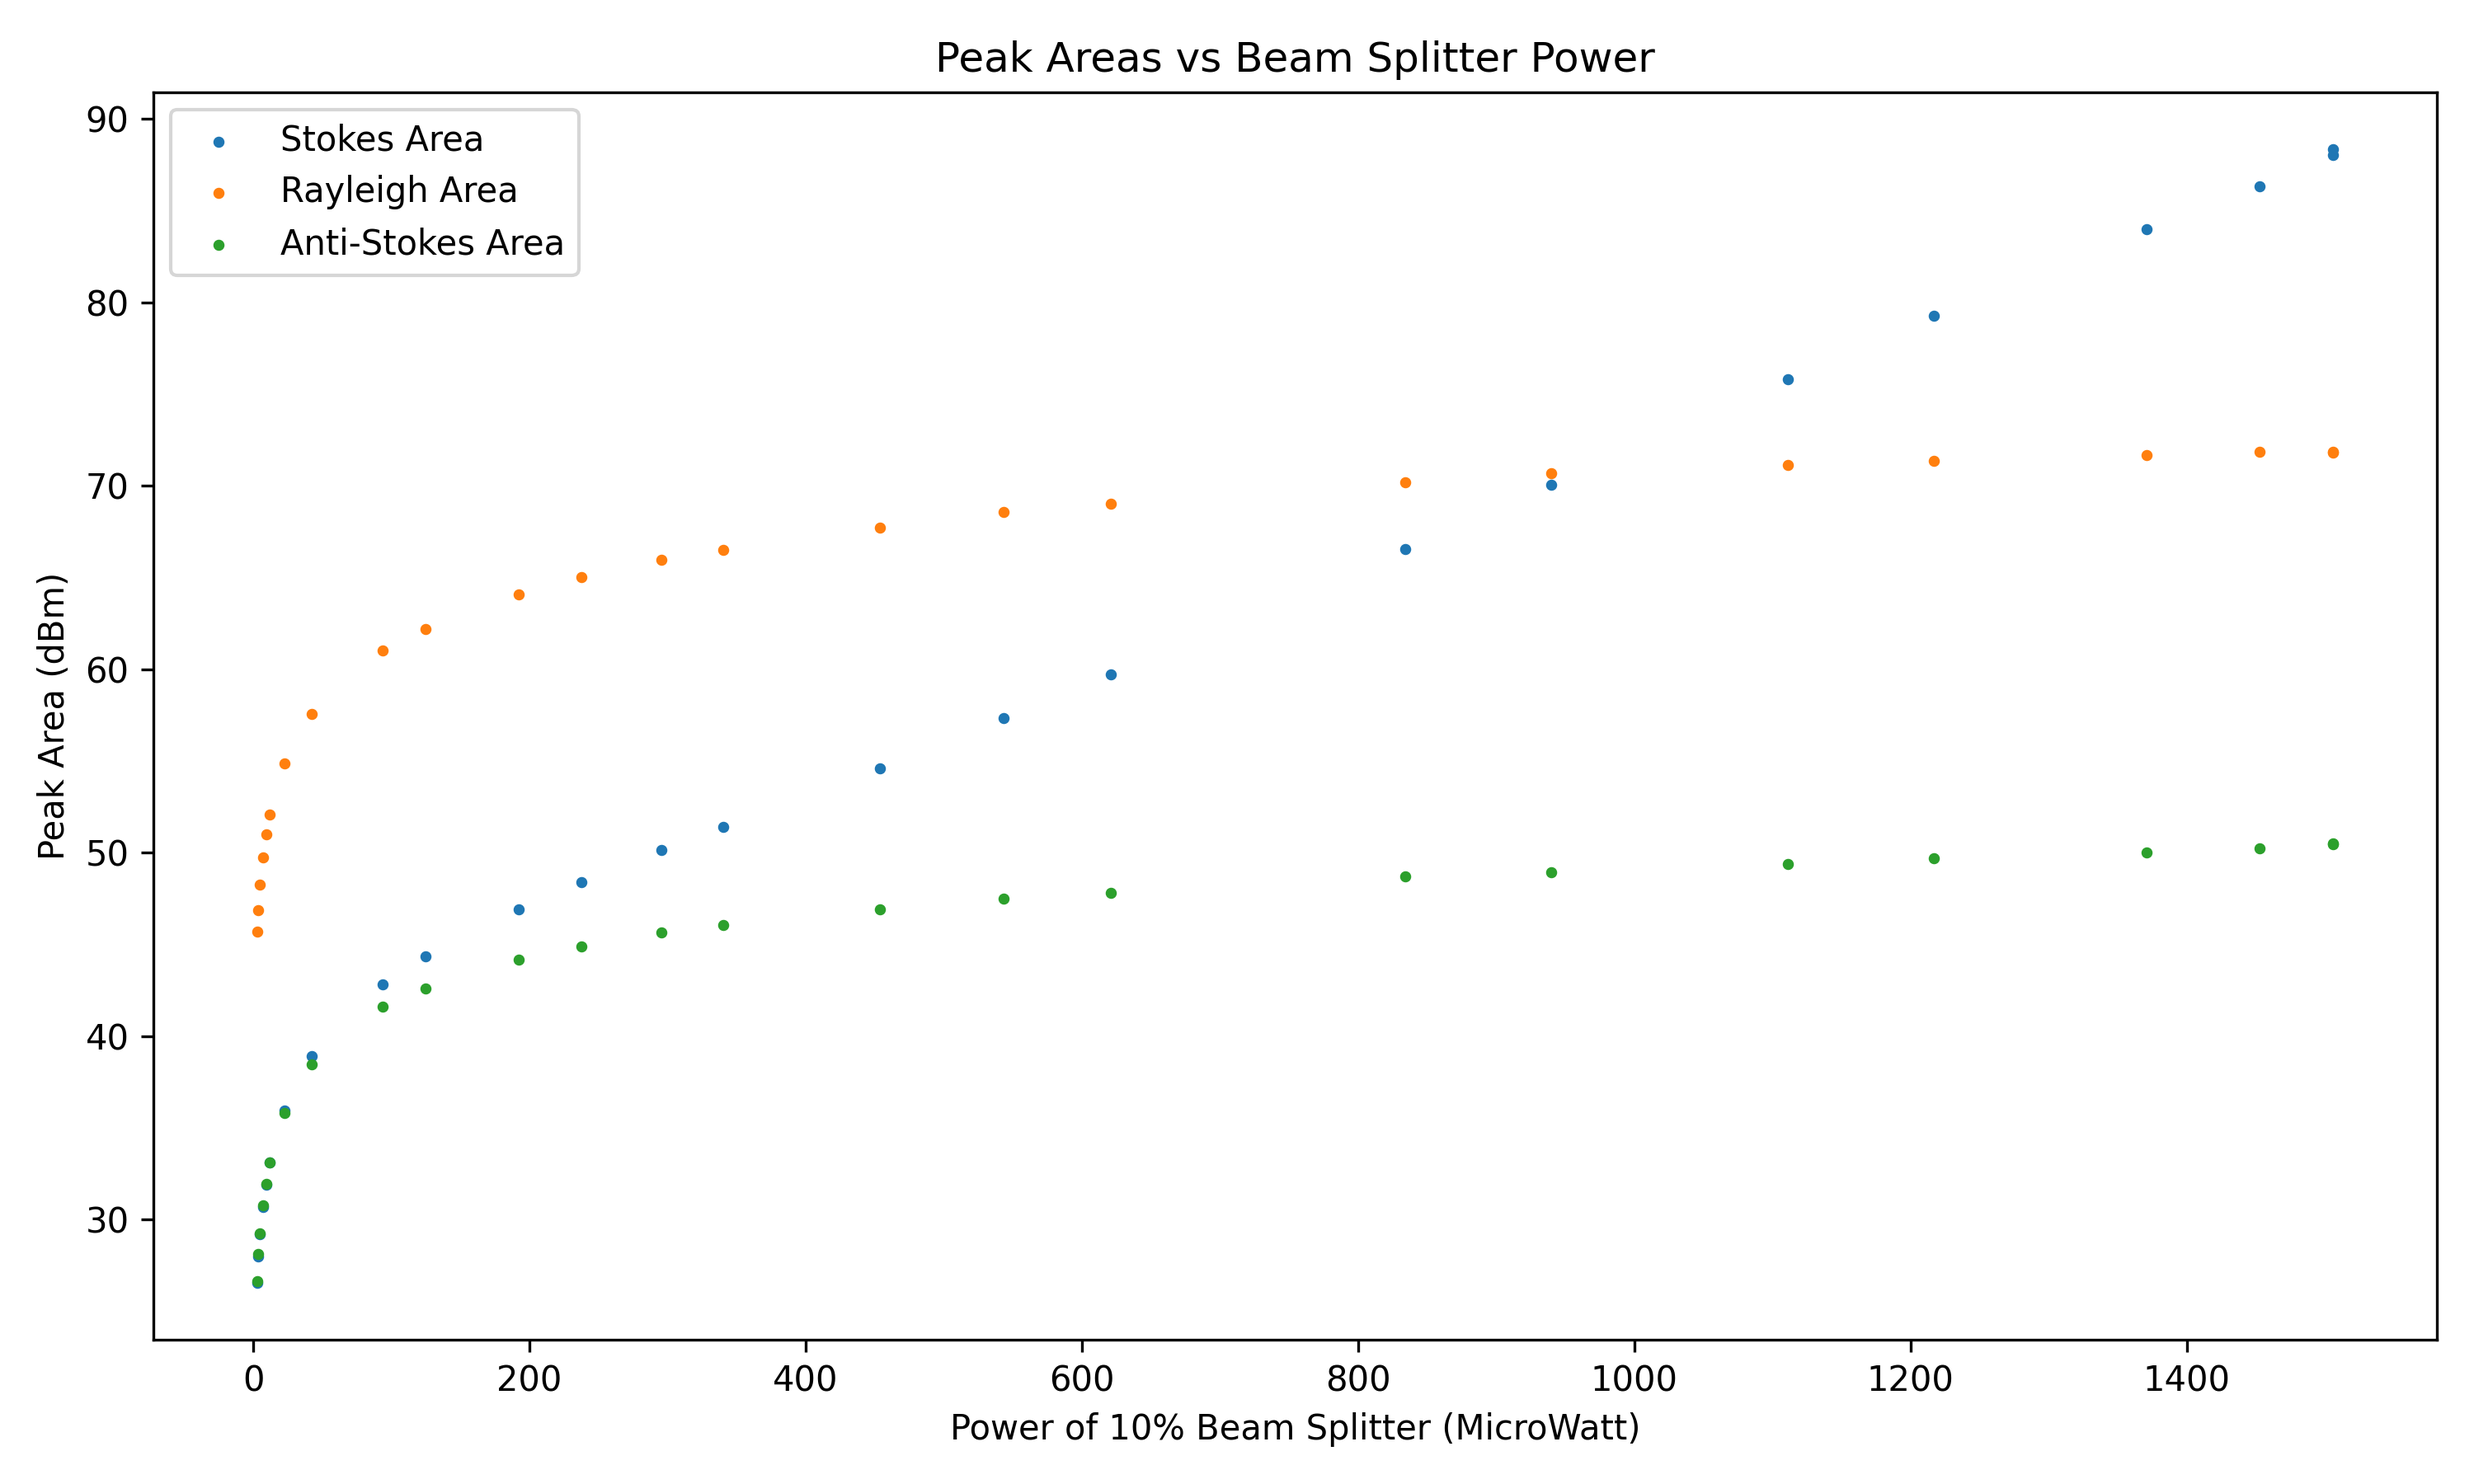
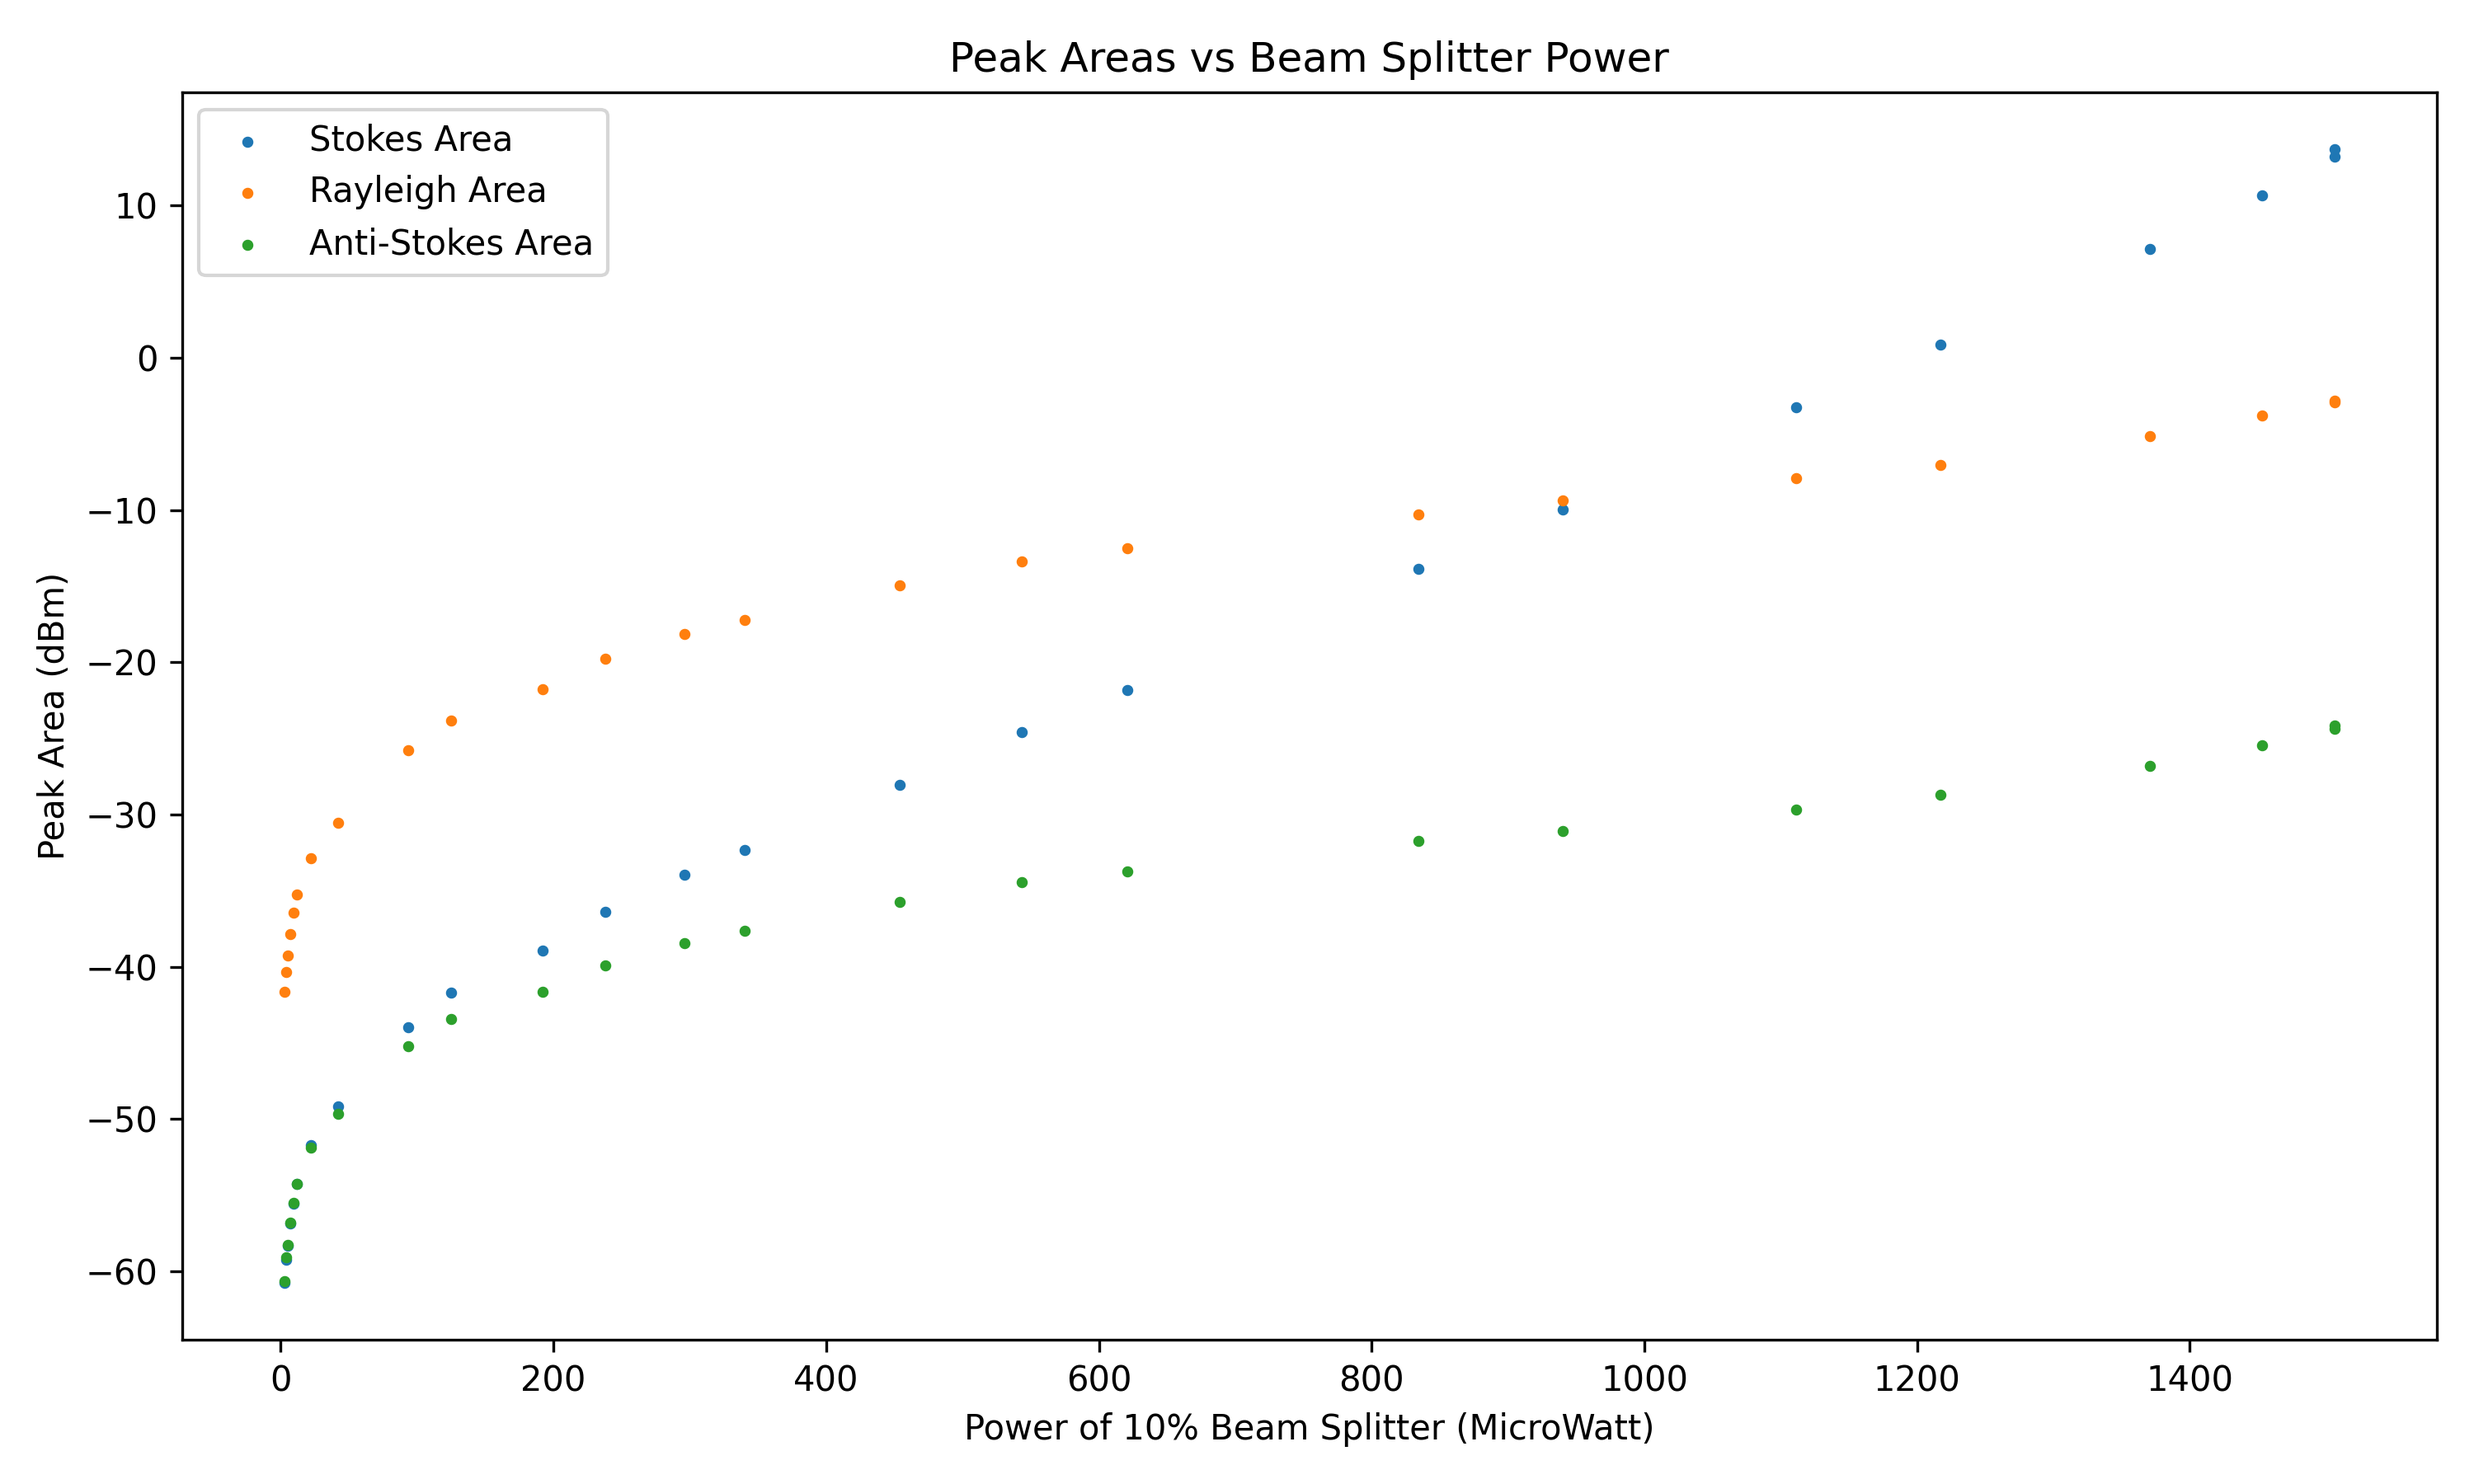
Fixing plots.

diff --git a/plotPeaks.py b/plotPeaks.py
@@ -12,12 +12,12 @@ def dbm_to_watts(dbm):
 
 def analyseSession_1():
 	# Load the CSV
-	df = pd.read_csv('OSA_Measurements_Analysis/Session_1/all_peaks_summary.csv')
+	df = pd.read_csv('Measurements_Analysis/Session_1/all_peaks_summary.csv')
 
 	power = df['powerOf10PercentBeamSplitter(MicroWatt)']
 
 	# Make 'images' folder next to the CSV if it doesn't exist
-	images_folder = "OSA_Measurements_Analysis/Session_1/images"
+	images_folder = "Measurements_Analysis/Session_1/images"
 
 	# Plot 1: x = amplitude, y = power
 	plt.figure(figsize=(10,6))
@@ -84,11 +84,18 @@ def analyseSession_1():
 	plt.savefig(os.path.join(images_folder, 'areadBm_vs_power.png'), dpi=300)
 	# plt.show()  # Commented for fast batch processing
 
+
+
+
+
+
+
+
 	# Plot 6: x = power, y = area (axes swapped)
 	plt.figure(figsize=(10,6))
-	plt.scatter(power, watts_to_dbm(df['peak1_area_W_Hz']), label='Stokes Area', s=5)
-	plt.scatter(power, watts_to_dbm(df['peak2_area_W_Hz']), label='Rayleigh Area', s=5)
-	plt.scatter(power, watts_to_dbm(df['peak3_area_W_Hz']), label='Anti-Stokes Area', s=5)
+	plt.scatter(power, watts_to_dbm(df['peak1_area_W_Hz']) + df['baseline'], label='Stokes Area', s=5)
+	plt.scatter(power, watts_to_dbm(df['peak2_area_W_Hz']) + df['baseline'], label='Rayleigh Area', s=5)
+	plt.scatter(power, watts_to_dbm(df['peak3_area_W_Hz']) + df['baseline'], label='Anti-Stokes Area', s=5)
 	plt.xlabel('Power of 10% Beam Splitter (MicroWatt)')
 	plt.ylabel('Peak Area (dBm)')
 	plt.title('Peak Areas vs Beam Splitter Power')
